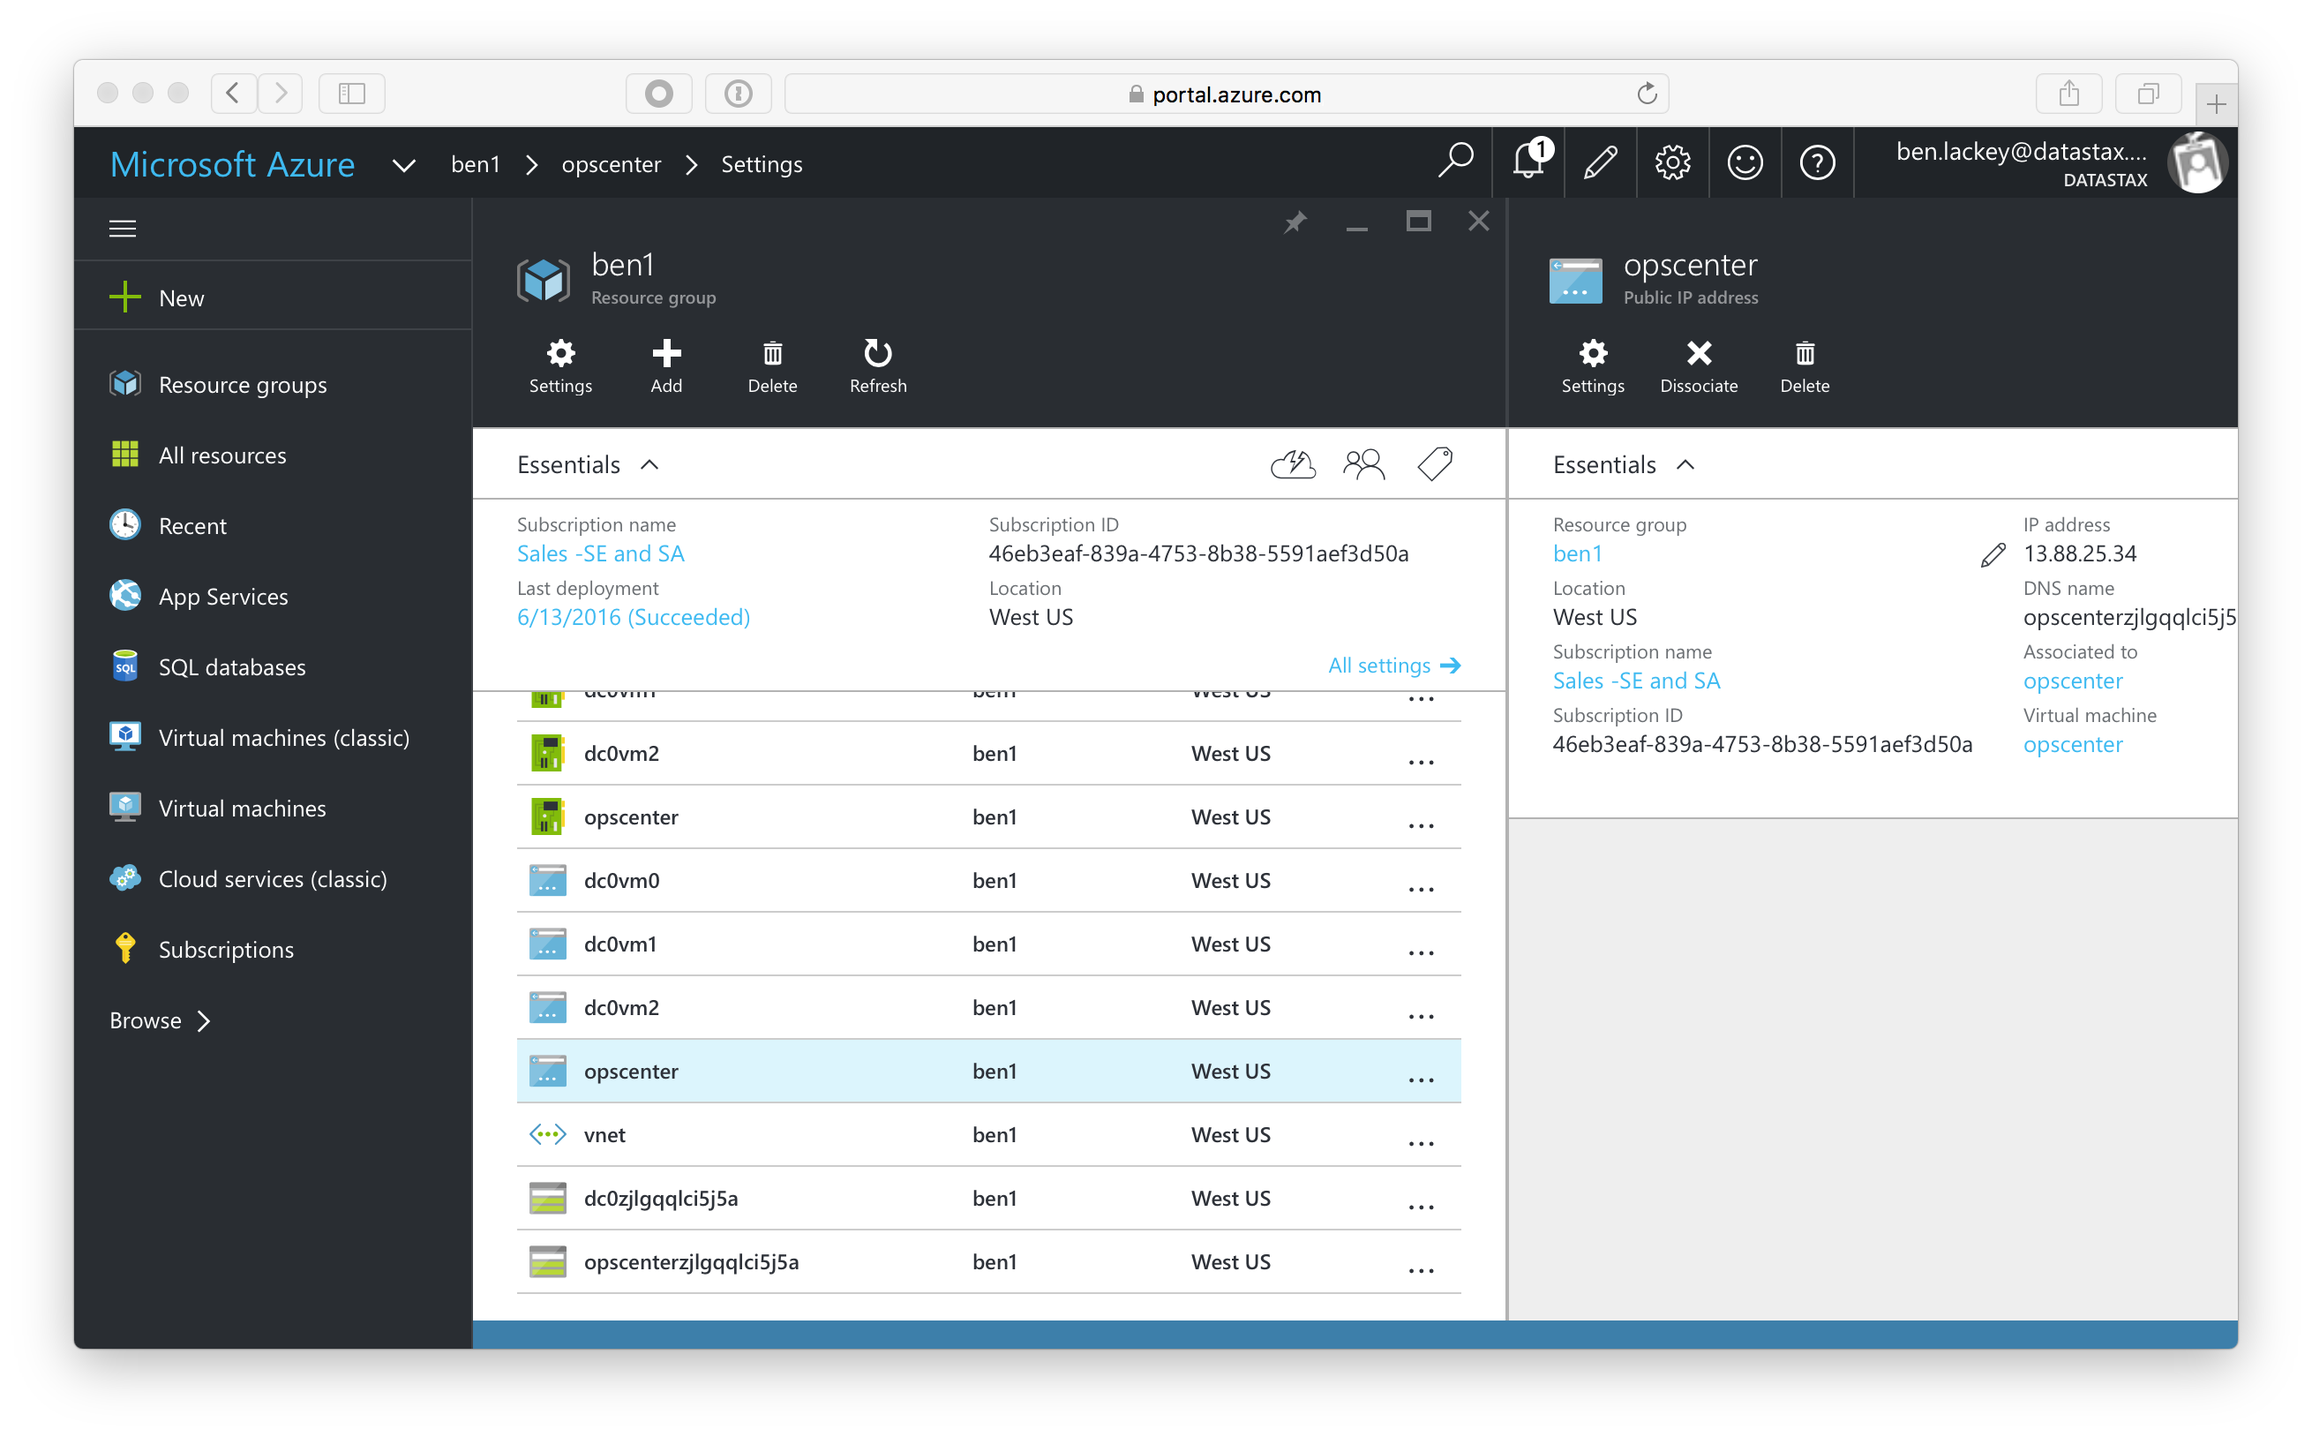
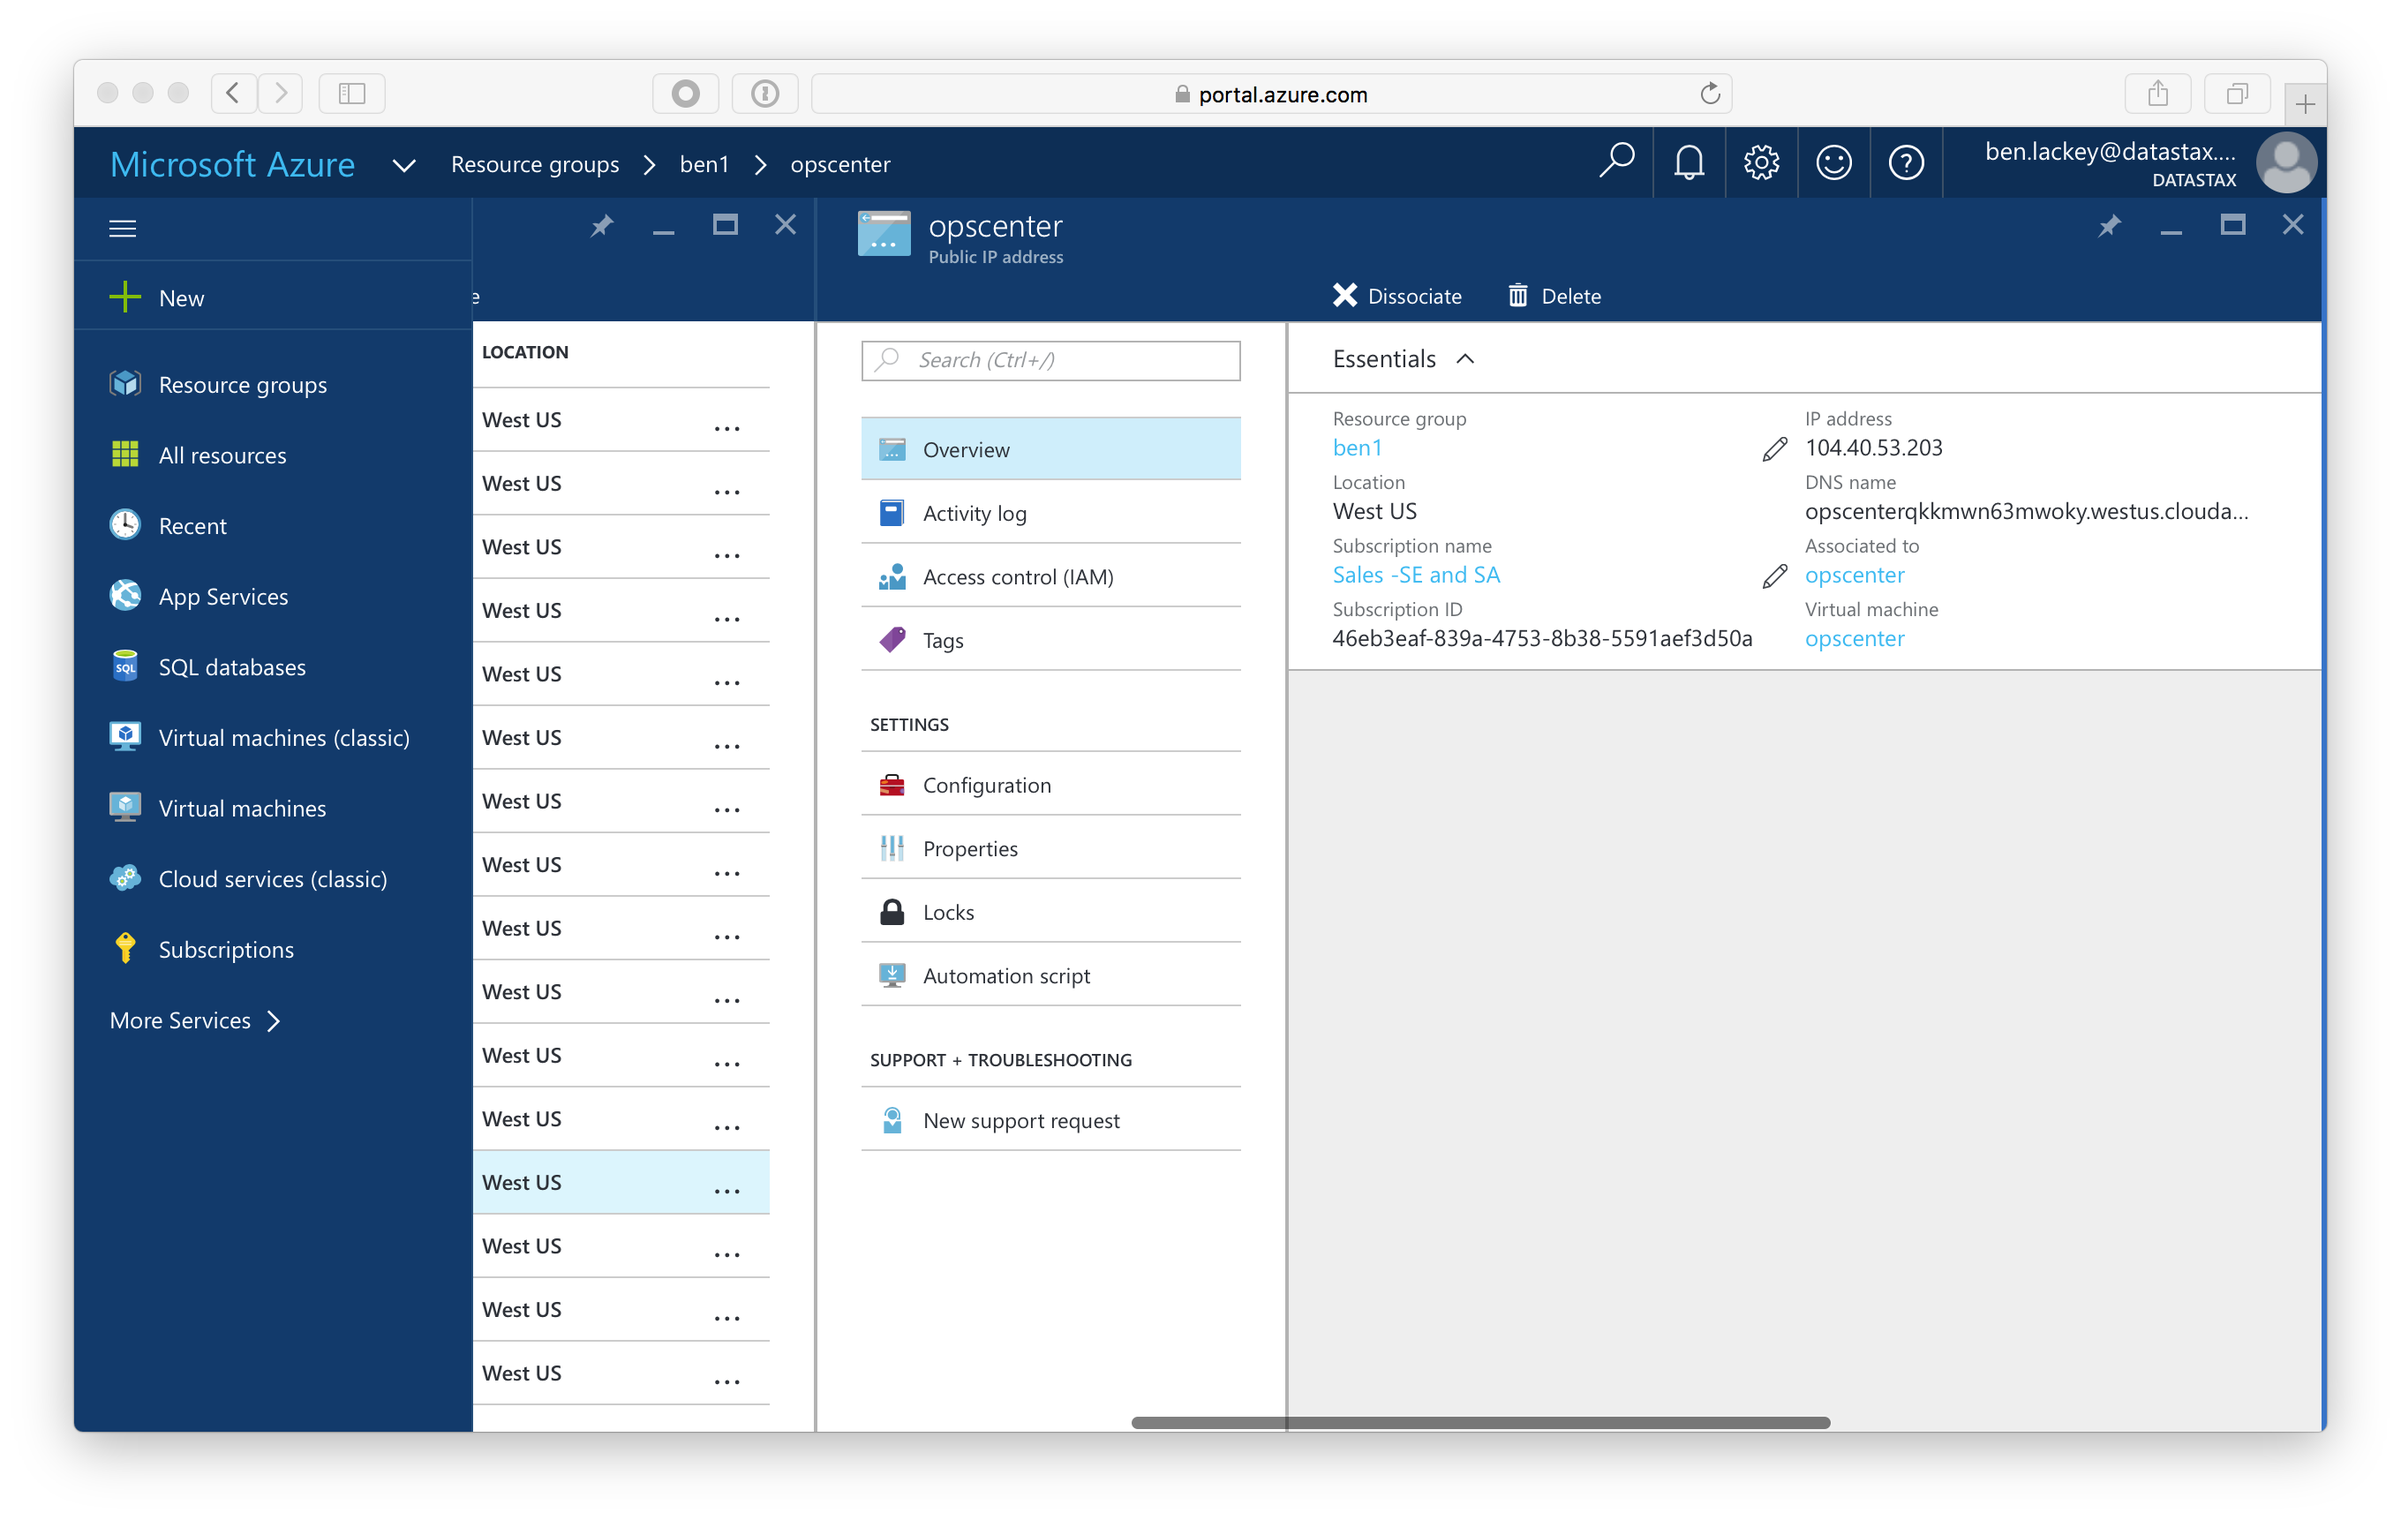
lab 0 to dse 5

diff --git a/labs/Lab 0 - Provisioning.md b/labs/Lab 0 - Provisioning.md
@@ -20,7 +20,7 @@ Now click on the "DataStax Enterprise" offer.
 
 ![](img/lab0-4createblade.png)
 
-You are presented with a new blade that shows the DataStax Enterprise offer.  There is some text describing DataStax.  There's also a pulldown that is grayed out.  This uses the "Resource Manager" deployment model.  Azure Resource Manager (ARM) is the newest and preferred way to deploy to Azure.  If you want to learn more about the ARM templates that underly the Azure Marketplace offer, you can learn about them [here](https://github.com/DSPN/azure-resource-manager-dse).
+You are presented with a new blade that shows the DataStax Enterprise offer.  There is some text describing DataStax.  There's also a pulldown that is grayed out.  This marketplace offer uses the "Resource Manager" deployment model.  Azure Resource Manager (ARM) is the newest and preferred way to deploy to Azure.  If you want to learn more about the ARM templates that underly the Azure Marketplace offer, you can learn about them [here](https://github.com/DSPN/azure-resource-manager-dse).
 
 Click on the "create" button.
 
@@ -64,13 +64,9 @@ Scroll down to the "opscenter" IP address and click on that.
 
 ![](./img/lab0-12opscip.png)
 
-In the cluster shown the IP is 13.88.25.34.  In your cluster it will be a different IP address.  Open a web browser to port 8888 on that IP address using http.  For this cluster, that is http://13.88.25.34:8888.  Note the URL you use will be different.
+In the cluster shown the IP is 104.40.53.203.  In your cluster it will be a different IP address.  Open a web browser to port 8888 on that IP address using http.  For this cluster, that is http://104.40.53.203:8888.  Note the URL you use will be different.
 
 ![](./img/lab0-13opsc.png)
-
-Click on the nodes icon (below the house icon) to see a graphical respresentation of your cluster.
-
-![](./img/lab0-14ring.png)
 
 Assuming everything went well you should see a ring with three nodes.  If you have fewer nodes or OpsCenter isn't working, it's possible something failed during the deployment.  The most common issue is that Java failed to install as the Oracle repo sometimes times out.  For failed clusters, it's typically easiest to delete the failed cluster and deploy a new one.  If you encounter issues, please reach out to you CSA, DSA or [ben.lackey@datastax.com](mailto:ben.lackey@datastax.com).
 
